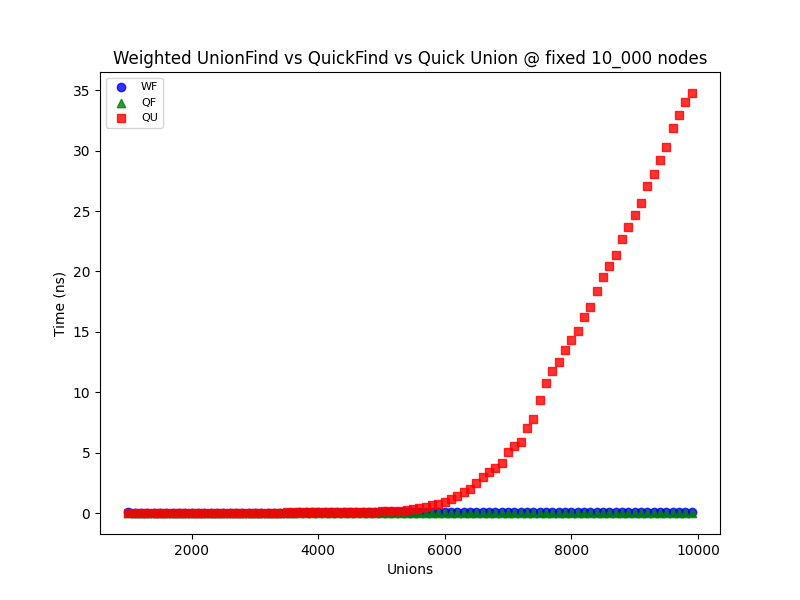
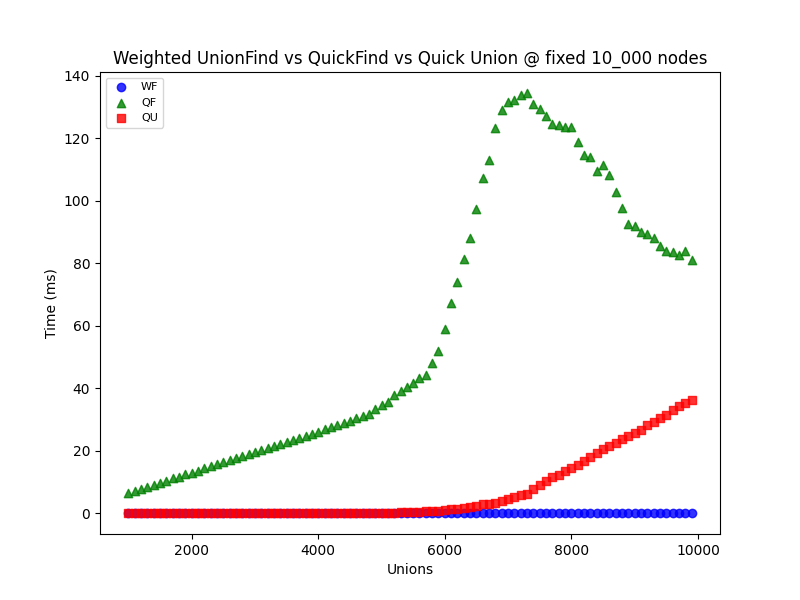
FINALLY

diff --git a/A01/src/race/qfFixedRace.java b/A01/src/race/qfFixedRace.java
@@ -33,16 +33,16 @@ public class qfFixedRace {
         System.out.println("\nGraphing Weighted Union Find versus Quick Find versus Quick union at fixed sized "+SIZE+" for varying numbers of Unions");
         
         
-        Plotter<Integer, Double> pltWF = new Plotter<>("uf/WUF_"+SIZE+".png", "Unions", "Time (ns)", Plotter.Type.SCATTER,"Weighted Union Find @ fixed "+SIZE+" nodes");
+        Plotter<Integer, Double> pltWF = new Plotter<>("uf/WUF_"+SIZE+".png", "Unions", "Time (ms)", Plotter.Type.SCATTER,"Weighted Union Find @ fixed "+SIZE+" nodes");
         Double[] times = runWF(SIZE, STEPS, START, unions,pltWF);
         plt.add(unions, times, "WF");
 
-        Plotter<Integer, Double> pltQF = new Plotter<>("uf/QF_"+SIZE+".png", "Unions", "Time (ns)", Plotter.Type.LINEAR,"Quick Find @ fixed "+SIZE+" nodes");
-        times = runQF(SIZE, STEPS, START, unions,pltQF);
+        Plotter<Integer, Double> pltQF = new Plotter<>("uf/QF_"+SIZE+".png", "Unions", "Time (ms)", Plotter.Type.SCATTER,"Quick Find @ fixed "+SIZE+" nodes");
+        times = runQF(SIZE, STEPS, START, unions, pltQF);
         plt.add(unions, times, "QF");
 
-        Plotter<Integer, Double> pltQU = new Plotter<>("uf/QU_"+SIZE+".png", "Unions", "Time (ns)", Plotter.Type.SCATTER,"Quick Union @ fixed "+SIZE+" nodes");
-        times = runQU(SIZE, STEPS, START, unions,pltQU);
+        Plotter<Integer, Double> pltQU = new Plotter<>("uf/QU_"+SIZE+".png", "Unions", "Time (ms)", Plotter.Type.SCATTER,"Quick Union @ fixed "+SIZE+" nodes");
+        times = runQU(SIZE, STEPS, START, unions, pltQU);
         plt.add(unions, times, "QU");
 
         plt.plot();
@@ -64,13 +64,65 @@ public class qfFixedRace {
         System.out.println("\nGraphing Weighted Union Find versus Quick Find at fixed sized "+SIZE+" for varying numbers of Unions");
         
         
-        Plotter<Integer, Double> pltWF = new Plotter<>("uf/WUF_"+SIZE+".png", "Unions", "Time (ns)", Plotter.Type.SCATTER,"Weighted Union Find @ fixed "+SIZE+" nodes");
+        Plotter<Integer, Double> pltWF = new Plotter<>("uf/WUF_"+SIZE+".png", "Unions", "Time (ms)", Plotter.Type.SCATTER,"Weighted Union Find @ fixed "+SIZE+" nodes");
         Double[] times = runWF(SIZE, STEPS, START, unions,pltWF);
         plt.add(unions, times, "WF");
 
-        Plotter<Integer, Double> pltQF = new Plotter<>("uf/QF_"+SIZE+".png", "Unions", "Time (ns)", Plotter.Type.LINEAR,"Quick Find @ fixed "+SIZE+" nodes");
+        Plotter<Integer, Double> pltQF = new Plotter<>("uf/QF_"+SIZE+".png", "Unions", "Time (ms)", Plotter.Type.SCATTER,"Quick Find @ fixed "+SIZE+" nodes");
         times = runQF(SIZE, STEPS, START, unions,pltQF);
         plt.add(unions, times, "QF");
+
+        plt.plot();
+    }
+
+    public void runQUvQF(int SIZE, int STEPS, int START, Plotter<Integer,Double> plt) {
+        this.START = START;
+        this.STEPS = STEPS;
+        this.SIZE = SIZE;
+
+        int arraySize = (SIZE - START) / STEPS; // Calculate the size of the array, rounding down
+        Integer[] unions = new Integer[arraySize];
+
+        for (int i = 0; i < arraySize; i++) {
+            unions[i] = START + i * STEPS;
+        }
+
+        System.out.println("\nGraphing Weighted Union Find versus Quick Find at fixed sized "+SIZE+" for varying numbers of Unions");
+        
+        
+        Plotter<Integer, Double> pltQU = new Plotter<>("uf/QU_"+SIZE+".png", "Unions", "Time (ms)", Plotter.Type.SCATTER,"Quick Union @ fixed "+SIZE+" nodes");
+        Double[] times = runQU(SIZE, STEPS, START, unions,pltQU);
+        plt.add(unions, times, "QU");
+
+        Plotter<Integer, Double> pltQF = new Plotter<>("uf/QF_"+SIZE+".png", "Unions", "Time (ms)", Plotter.Type.SCATTER,"Quick Find @ fixed "+SIZE+" nodes");
+        times = runQF(SIZE, STEPS, START, unions,pltQF);
+        plt.add(unions, times, "QF");
+
+        plt.plot();
+    }
+
+    public void runQUvWF(int SIZE, int STEPS, int START, Plotter<Integer,Double> plt) {
+        this.START = START;
+        this.STEPS = STEPS;
+        this.SIZE = SIZE;
+
+        int arraySize = (SIZE - START) / STEPS; // Calculate the size of the array, rounding down
+        Integer[] unions = new Integer[arraySize];
+
+        for (int i = 0; i < arraySize; i++) {
+            unions[i] = START + i * STEPS;
+        }
+
+        System.out.println("\nGraphing Weighted Union Find versus Quick Find at fixed sized "+SIZE+" for varying numbers of Unions");
+        
+        
+        Plotter<Integer, Double> pltQU = new Plotter<>("uf/QU_"+SIZE+".png", "Unions", "Time (ms)", Plotter.Type.SCATTER,"Quick Union @ fixed "+SIZE+" nodes");
+        Double[] times = runQU(SIZE, STEPS, START, unions,pltQU);
+        plt.add(unions, times, "QU");
+
+        Plotter<Integer, Double> pltWF = new Plotter<>("uf/WUF_"+SIZE+".png", "Unions", "Time (ms)", Plotter.Type.SCATTER,"Weighted Union Find @ fixed "+SIZE+" nodes");
+        times = runWF(SIZE, STEPS, START, unions,pltWF);
+        plt.add(unions, times, "WF");
 
         plt.plot();
     }
@@ -110,7 +162,7 @@ public class qfFixedRace {
         QuickUnion qu = new QuickUnion(SIZE);
         Double[] times = getUfTimes(unions, qu);
         
-        Plotter<Integer, Double> QUsubplot = new Plotter<>("uf/QU_subplot_"+SIZE+".png", "Unions", "Time (ns)", Plotter.Type.SCATTER,"Quick Union @ fixed "+SIZE+" nodes");
+        Plotter<Integer, Double> QUsubplot = new Plotter<>("uf/QU_subplot_"+SIZE+".png", "Unions", "Time (ms)", Plotter.Type.SCATTER,"Quick Union @ fixed "+SIZE+" nodes");
         // TODO: make subplot of QU to look at sudden time increase around 50% unions.
         plt.add(unions, times, qu.name);
         qu = null;

diff --git a/A01/src/App.java b/A01/src/App.java
@@ -5,26 +5,45 @@ import src.race.qfFixedRace;
 
 public class App {
     public static void main(String[] args) {
+        Plotter<Integer, Double> plt;
         qfFixedRace race = new qfFixedRace();
         kSumRace tsrace = new kSumRace();
     
         
         /**
-        Plotter<Integer, Double> plt = new Plotter<>("uf/WUFvsQFvsQU_10_000_max.png", "Unions", "Time (ns)", Plotter.Type.SCATTER,"Weighted UnionFind vs QuickFind vs Quick Union @ fixed 10_000 nodes");
+        Plotter<Integer, Double> plt = new Plotter<>("uf/WUFvsQFvsQU_10_000_max.png", "Unions", "Time (ms)", Plotter.Type.SCATTER,"Weighted UnionFind vs QuickFind vs Quick Union @ fixed 10_000 nodes");
         race = new qfFixedRace();
         race.runAll(10000, 100, 1000, plt);
-        plt = new Plotter<>("uf/WUFvsQFvsQU_20_000_max.png", "Unions", "Time (ns)", Plotter.Type.SCATTER,"Weighted UnionFind vs QuickFind vs Quick Union @ fixed 20_000 nodes");
+        plt = new Plotter<>("uf/WUFvsQFvsQU_20_000_max.png", "Unions", "Time (ms)", Plotter.Type.SCATTER,"Weighted UnionFind vs QuickFind vs Quick Union @ fixed 20_000 nodes");
         race.runAll(20000, 200, 1000, plt);
-        plt = new Plotter<>("uf/WUFvsQFvsQU_30_000_max.png", "Unions", "Time (ns)", Plotter.Type.SCATTER,"Weighted UnionFind vs QuickFind vs Quick Union @ fixed 30_000 nodes");
+        plt = new Plotter<>("uf/WUFvsQFvsQU_30_000_max.png", "Unions", "Time (ms)", Plotter.Type.SCATTER,"Weighted UnionFind vs QuickFind vs Quick Union @ fixed 30_000 nodes");
         race.runAll(30000, 300, 1000, plt);
 
-        plt = new Plotter<>("uf/WUFvsQF_10_000_max.png", "Unions", "Time (ns)", Plotter.Type.LINEAR,"Weighted UnionFind vs Quick Find  @ fixed 10_000 nodes");
+        Plotter<Integer, Double> plt = new Plotter<>("uf/WUFvsQF_10_000_max.png", "Unions", "Time (ms)", Plotter.Type.LINEAR,"Weighted UnionFind vs Quick Find  @ fixed 10_000 nodes");
         race.runWFvQF(10000, 100, 1000, plt);
-        */
+        plt = new Plotter<>("uf/WUFvsQF_20_000_max.png", "Unions", "Time (ms)", Plotter.Type.LINEAR,"Weighted UnionFind vs Quick Find  @ fixed 20_000 nodes");
+        race.runWFvQF(20000, 200, 2000, plt);
 
         Plotter<Integer, Double> plt = new Plotter<>("ksum/BruteForcevsCached_100.png", "Length", "Time (ms)", Plotter.Type.EXPONENTIAL,"Brute-Force versus Cached 3-Sum @ 100 Max Elements.");
         tsrace.run(200, 5, 5, plt);
         plt = new Plotter<>("ksum/BruteForcevsCached_500.png", "Length", "Time (ms)", Plotter.Type.EXPONENTIAL,"Brute-Force versus Cached 3-Sum @ 500 Max Elements.");
         tsrace.run(500, 10, 100, plt);
+        */
+
+        plt = new Plotter<>("uf/WUFvsQFvsQU_5_000_max.png", "Unions", "Time (ms)", Plotter.Type.SCATTER,"Weighted UnionFind vs QuickFind vs Quick Union @ fixed 5_000 nodes");
+        race.runAll(500, 10, 100, plt);
+        plt = new Plotter<>("uf/WUFvsQFvsQU_10_000_max.png", "Unions", "Time (ms)", Plotter.Type.SCATTER,"Weighted UnionFind vs QuickFind vs Quick Union @ fixed 10_000 nodes");
+        race.runAll(10000, 100, 1000, plt);
+        plt = new Plotter<>("uf/WUFvsQFvsQU_20_000_max.png", "Unions", "Time (ms)", Plotter.Type.SCATTER,"Weighted UnionFind vs QuickFind vs Quick Union @ fixed 20_000 nodes");
+        race.runAll(20000, 500, 5000, plt);
+
+        plt = new Plotter<>("uf/WUFvsQF_10_000_max.png", "Unions", "Time (ms)", Plotter.Type.LINEAR,"Weighted UnionFind vs Quick Find  @ fixed 10_000 nodes");
+        race.runWFvQF(10000, 250, 1000, plt);
+        plt = new Plotter<>("uf/QFvsQU_10_000_max.png", "Unions", "Time (ms)", Plotter.Type.LINEAR,"Quick Union vs Quick Find  @ fixed 10_000 nodes");
+        race.runQUvQF(10000, 250, 1000, plt);
+
+        
+
+        
     }
 }

diff --git a/A01/src/uf/WeightedUnionFind.java b/A01/src/uf/WeightedUnionFind.java
@@ -24,20 +24,20 @@ public class WeightedUnionFind extends UnionFind{
      * @return
      */
     public boolean connected(int a, int b) {
-        return find(a) == find(b);
+        return root(a) == root(b);
     }
 
     /**
-     * Find the root of a given element with path compression.
+     * Find the root of a given element.
      * @param a Node to find root of
      * @return
      */
-    private int find(int a) {
-        while (a != S[a]) {
+    private int root(int a) {
+        while (a != this.S[a]) {
             S[a] = S[S[a]];
-            a = S[a];
+            a = this.S[a];
         }
-        return a;
+        return this.S[a];
     }
 
     /**
@@ -48,11 +48,8 @@ public class WeightedUnionFind extends UnionFind{
      * @param b Node b
      */
     public void union(int a, int b) {
-
-        int rootA = find(a);
-        int rootB = find(b);
-
-        if (rootA == rootB) {return;}
+        int rootA = root(a);
+        int rootB = root(b);
 
         if (heights[rootA] < heights[rootB]) {
             S[rootA] = rootB;

diff --git a/A01/src/uf/QuickUnion.java b/A01/src/uf/QuickUnion.java
@@ -2,7 +2,6 @@ package src.uf;
 
 public class QuickUnion extends UnionFind{
     public String name = "QU";
-
     private int[] S;
 
     public QuickUnion(int N) {
@@ -10,20 +9,22 @@ public class QuickUnion extends UnionFind{
         for(int i=0; i<N; i++) this.S[i] = i;
     }
 
-    private int root(int a) {
-        while(S[a]!=a) a=S[a];
-        return a;
-    }
-
     public boolean connected(int a, int b) {
         return root(a) == root(b);
     }
 
+    private int root(int a) {
+        while (a != S[a]) {
+            a = S[a];
+        }
+        return a;
+    }
+
+    
+
     public void union(int a, int b) {
         int rootA = root(a);
         int rootB = root(b);
-
-        if (rootA == rootB) {return;}
 
         S[rootA] = rootB;
     }

diff --git a/A01/src/uf/QuickFind.java b/A01/src/uf/QuickFind.java
@@ -31,8 +31,6 @@ public class QuickFind extends UnionFind {
     public void union(int a, int b) {
         int idA = S[a];
         int idB = S[b];
-        
-        if(idA == idB) return;
 
         for (int index = 0; index < S.length; index++) {
             if (S[index] == idA) {
